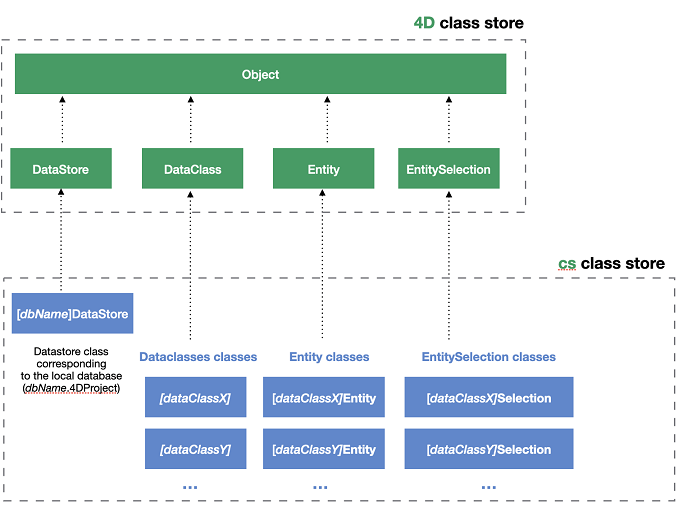
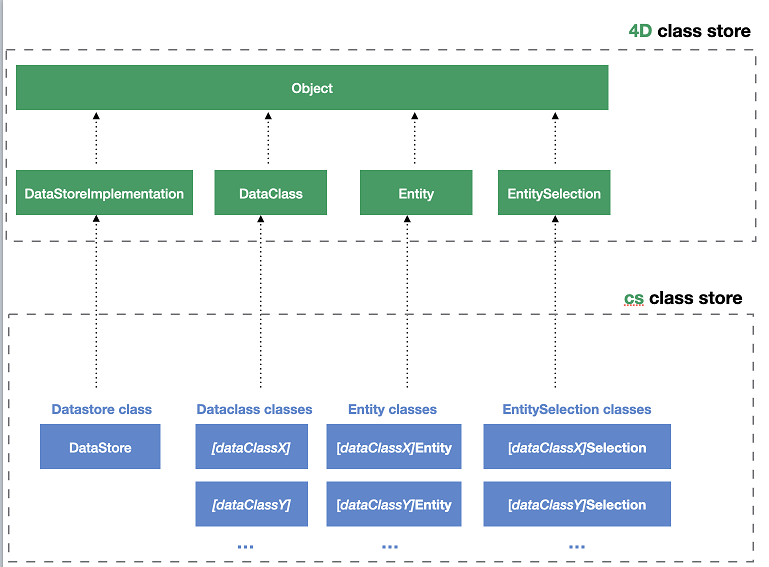
Automated build from branch refs/heads/develop

diff --git a/alpha/en/API/ordaClasses.html b/alpha/en/API/ordaClasses.html
@@ -94,7 +94,7 @@ Form.comp.city:=<span class="hljs-variable">$cityManager</span>.City.<span class
 <li><a href="https://doc.4d.com/4Dv18R3/4D/18-R3/ORDA-Entity.201-4900374.en.html">entity</a></li>
 </ul>
 <h4><a class="anchor" aria-hidden="true" id="user-class-store-cs"></a><a href="#user-class-store-cs" aria-hidden="true" class="hash-link"><svg class="hash-link-icon" aria-hidden="true" height="16" version="1.1" viewBox="0 0 16 16" width="16"><path fill-rule="evenodd" d="M4 9h1v1H4c-1.5 0-3-1.69-3-3.5S2.55 3 4 3h4c1.45 0 3 1.69 3 3.5 0 1.41-.91 2.72-2 3.25V8.59c.58-.45 1-1.27 1-2.09C10 5.22 8.98 4 8 4H4c-.98 0-2 1.22-2 2.5S3 9 4 9zm9-3h-1v1h1c1 0 2 1.22 2 2.5S13.98 12 13 12H9c-.98 0-2-1.22-2-2.5 0-.83.42-1.64 1-2.09V6.25c-1.09.53-2 1.84-2 3.25C6 11.31 7.55 13 9 13h4c1.45 0 3-1.69 3-3.5S14.5 6 13 6z"></path></svg></a>User Class Store (cs)</h4>
-<p>Object instances from ORDA user classes benefit from their parent's properties and functions. For example, an entity class object can call functions from the <a href="https://doc.4d.com/4Dv18R3/4D/18-R3/ORDA-Entity.201-4900374.en.html">ORDA's Entity generic class</a>.</p>
+<p>Object instances from ORDA data model user classes benefit from their parent's properties and functions. For example, an entity class object can call functions from the <a href="https://doc.4d.com/4Dv18R3/4D/18-R3/ORDA-Entity.201-4900374.en.html">ORDA's Entity generic class</a>.</p>
 <p>In addition, the 4D developer can add custom functions to create a business-oriented API exposing only necessary features.</p>
 <p>All ORDA classes are exposed as properties of the <strong><code>cs</code></strong> class store. The following ORDA class objects are available:</p>
 <table>
@@ -102,21 +102,20 @@ Form.comp.city:=<span class="hljs-variable">$cityManager</span>.City.<span class
 <tr><th>ORDA object</th><th>Class</th><th>Instanciated by</th></tr>
 </thead>
 <tbody>
-<tr><td>datastore</td><td>cs.<em>dbName</em>DataStore(*)</td><td><code>ds</code> command</td></tr>
+<tr><td>datastore</td><td>cs.DataStore</td><td><code>ds</code> command</td></tr>
 <tr><td>dataClassName</td><td>cs.<em>DataClassName</em></td><td><code>dataStore.DataClassName</code>, <code>dataStore[DataClassName]</code></td></tr>
 <tr><td>entity from DataClassName</td><td>cs.<em>DataClassName</em>Entity</td><td><code>dataClass.get()</code>, <code>dataClass.new()</code>, <code>entitySelection.first()</code>, <code>entitySelection.last()</code>, <code>entity.previous()</code>, <code>entity.next()</code>, <code>entity.first()</code>, <code>entity.last()</code>, <code>entity.clone()</code></td></tr>
-<tr><td>entitySelection from dataClassName</td><td>cs.<em>dataClassName</em>Selection</td><td><code>dataClass.query()</code>, <code>entitySelection.query()</code>, <code>dataClass.all()</code>, <code>dataClass.fromCollection()</code>, <code>dataClass.newSelection()</code>, <code>entitySelection.drop()</code>, <code>entity.getSelection()</code>, <code>entitySelection.and()</code>, <code>entitySelection.minus()</code>, <code>entitySelection.or()</code>, <code>entitySelection.orderBy()</code>, <code>entitySelection.orderByFormula()</code>, <code>entitySelection.slice()</code>, <code>Create entity selection</code></td></tr>
+<tr><td>entitySelection from dataClassName</td><td>cs.<em>DataClassName</em>Selection</td><td><code>dataClass.query()</code>, <code>entitySelection.query()</code>, <code>dataClass.all()</code>, <code>dataClass.fromCollection()</code>, <code>dataClass.newSelection()</code>, <code>entitySelection.drop()</code>, <code>entity.getSelection()</code>, <code>entitySelection.and()</code>, <code>entitySelection.minus()</code>, <code>entitySelection.or()</code>, <code>entitySelection.orderBy()</code>, <code>entitySelection.orderByFormula()</code>, <code>entitySelection.slice()</code>, <code>Create entity selection</code></td></tr>
 </tbody>
 </table>
-<p>(*)dbName is the .4DProject file name.</p>
 <blockquote>
 <p>ORDA user classes are stored as regular class files (.4dm) in the Classes subfolder of the project <a href="#support-in-4d-projects">(see below)</a>.</p>
 </blockquote>
 <h3><a class="anchor" aria-hidden="true" id="inheritance"></a><a href="#inheritance" aria-hidden="true" class="hash-link"><svg class="hash-link-icon" aria-hidden="true" height="16" version="1.1" viewBox="0 0 16 16" width="16"><path fill-rule="evenodd" d="M4 9h1v1H4c-1.5 0-3-1.69-3-3.5S2.55 3 4 3h4c1.45 0 3 1.69 3 3.5 0 1.41-.91 2.72-2 3.25V8.59c.58-.45 1-1.27 1-2.09C10 5.22 8.98 4 8 4H4c-.98 0-2 1.22-2 2.5S3 9 4 9zm9-3h-1v1h1c1 0 2 1.22 2 2.5S13.98 12 13 12H9c-.98 0-2-1.22-2-2.5 0-.83.42-1.64 1-2.09V6.25c-1.09.53-2 1.84-2 3.25C6 11.31 7.55 13 9 13h4c1.45 0 3-1.69 3-3.5S14.5 6 13 6z"></path></svg></a>Inheritance</h3>
-<p>Given a database named EmpComp containing Employee and Company tables, the following examples show inheritance rules:</p>
-<pre><code class="hljs css language-4d"><span class="hljs-variable">$i</span>:=<span class="hljs-function">OB Instance of</span>(ds;<span class="hljs-number">4</span>D.DataStore) <span class="hljs-comment">//True</span>
-<span class="hljs-variable">$i</span>:=<span class="hljs-function">OB Instance of</span>(ds;cs.EmpCompDataStore) <span class="hljs-comment">//True  </span>
-<span class="hljs-variable">$class</span>:=<span class="hljs-function">OB Class</span>(ds) <span class="hljs-comment">//$class=cs.EmpCompDataStore  </span>
+<p>Given a project containing Employee and Company tables, the following examples show inheritance rules:</p>
+<pre><code class="hljs css language-4d"><span class="hljs-variable">$i</span>:=<span class="hljs-function">OB Instance of</span>(ds;<span class="hljs-number">4</span>D.DataStoreImplementation) <span class="hljs-comment">//True</span>
+<span class="hljs-variable">$i</span>:=<span class="hljs-function">OB Instance of</span>(ds;cs.DataStore) <span class="hljs-comment">//True  </span>
+<span class="hljs-variable">$class</span>:=<span class="hljs-function">OB Class</span>(ds) <span class="hljs-comment">//$class=cs.DataStore  </span>
 
 <span class="hljs-variable">$i</span>:=<span class="hljs-function">OB Instance of</span>(ds.Employee;<span class="hljs-number">4</span>D.DataClass) <span class="hljs-comment">//True</span>
 <span class="hljs-variable">$i</span>:=<span class="hljs-function">OB Instance of</span>(ds.Employee;cs.Employee) <span class="hljs-comment">//True  </span>
@@ -135,23 +134,23 @@ Form.comp.city:=<span class="hljs-variable">$cityManager</span>.City.<span class
 <h3><a class="anchor" aria-hidden="true" id="datastore-class"></a><a href="#datastore-class" aria-hidden="true" class="hash-link"><svg class="hash-link-icon" aria-hidden="true" height="16" version="1.1" viewBox="0 0 16 16" width="16"><path fill-rule="evenodd" d="M4 9h1v1H4c-1.5 0-3-1.69-3-3.5S2.55 3 4 3h4c1.45 0 3 1.69 3 3.5 0 1.41-.91 2.72-2 3.25V8.59c.58-.45 1-1.27 1-2.09C10 5.22 8.98 4 8 4H4c-.98 0-2 1.22-2 2.5S3 9 4 9zm9-3h-1v1h1c1 0 2 1.22 2 2.5S13.98 12 13 12H9c-.98 0-2-1.22-2-2.5 0-.83.42-1.64 1-2.09V6.25c-1.09.53-2 1.84-2 3.25C6 11.31 7.55 13 9 13h4c1.45 0 3-1.69 3-3.5S14.5 6 13 6z"></path></svg></a>DataStore Class</h3>
 <p>A 4D database exposes its own DataStore class in the <code>cs</code> class store.</p>
 <ul>
-<li><strong>Extends</strong>: 4D.DataStore</li>
-<li><strong>Exposed name</strong>: <em>dbName</em>DataStore (where <em>dbName</em> is the .4DProject file name)</li>
-<li><strong>Class file name</strong>: <em>dbName</em>DataStore.4dm</li>
+<li><strong>Extends</strong>: 4D.DataStoreImplementation</li>
+<li><strong>Exposed name</strong>: DataStore</li>
+<li><strong>Class file name</strong>: DataStore.4dm</li>
 </ul>
 <table>
 <thead>
 <tr><th>Database file name</th><th>DataStore class name</th><th>Class file name</th></tr>
 </thead>
 <tbody>
-<tr><td>Employee.4DProject</td><td>cs.EmployeeDataStore</td><td>EmployeeDataStore.4dm</td></tr>
+<tr><td>Employee.4DProject</td><td>cs.DataStore</td><td>DataStore.4dm</td></tr>
 </tbody>
 </table>
-<p>You can create functions in the <em>dbName</em>DataStore class, that will be available through the <code>ds</code> object.</p>
+<p>You can create functions in the DataStore class, that will be available through the <code>ds</code> object.</p>
 <h4><a class="anchor" aria-hidden="true" id="example"></a><a href="#example" aria-hidden="true" class="hash-link"><svg class="hash-link-icon" aria-hidden="true" height="16" version="1.1" viewBox="0 0 16 16" width="16"><path fill-rule="evenodd" d="M4 9h1v1H4c-1.5 0-3-1.69-3-3.5S2.55 3 4 3h4c1.45 0 3 1.69 3 3.5 0 1.41-.91 2.72-2 3.25V8.59c.58-.45 1-1.27 1-2.09C10 5.22 8.98 4 8 4H4c-.98 0-2 1.22-2 2.5S3 9 4 9zm9-3h-1v1h1c1 0 2 1.22 2 2.5S13.98 12 13 12H9c-.98 0-2-1.22-2-2.5 0-.83.42-1.64 1-2.09V6.25c-1.09.53-2 1.84-2 3.25C6 11.31 7.55 13 9 13h4c1.45 0 3-1.69 3-3.5S14.5 6 13 6z"></path></svg></a>Example</h4>
-<pre><code class="hljs css language-4d"><span class="hljs-comment">// cs.EmployeeDataStore class</span>
+<pre><code class="hljs css language-4d"><span class="hljs-comment">// cs.DataStore class</span>
 
-Class extends DataStore
+Class extends DataStoreImplementation
 
 Function getDesc
   <span class="hljs-variable">$0</span>:=<span class="hljs-string">"Database exposing employees and their companies"</span>
@@ -285,21 +284,20 @@ Class extends Entity
 <p><strong>Warning</strong>: Keep in mind that ORDA functions are always executed on the server, thus calling a function do generate a request to the server.</p>
 </blockquote>
 <h2><a class="anchor" aria-hidden="true" id="support-in-4d-projects"></a><a href="#support-in-4d-projects" aria-hidden="true" class="hash-link"><svg class="hash-link-icon" aria-hidden="true" height="16" version="1.1" viewBox="0 0 16 16" width="16"><path fill-rule="evenodd" d="M4 9h1v1H4c-1.5 0-3-1.69-3-3.5S2.55 3 4 3h4c1.45 0 3 1.69 3 3.5 0 1.41-.91 2.72-2 3.25V8.59c.58-.45 1-1.27 1-2.09C10 5.22 8.98 4 8 4H4c-.98 0-2 1.22-2 2.5S3 9 4 9zm9-3h-1v1h1c1 0 2 1.22 2 2.5S13.98 12 13 12H9c-.98 0-2-1.22-2-2.5 0-.83.42-1.64 1-2.09V6.25c-1.09.53-2 1.84-2 3.25C6 11.31 7.55 13 9 13h4c1.45 0 3-1.69 3-3.5S14.5 6 13 6z"></path></svg></a>Support in 4D projects</h2>
-<p>ORDA user class files must be stored at the <a href="/docs/alpha/en/Concepts/classes.html#class-files">same location as regular class files</a>, i.e. in the <code>/Sources/Classes</code> folder of the project folder.</p>
+<p>ORDA data model user class files must be stored at the <a href="/docs/alpha/en/Concepts/classes.html#class-files">same location as regular class files</a>, i.e. in the <code>/Sources/Classes</code> folder of the project folder.</p>
 <h3><a class="anchor" aria-hidden="true" id="creating-classes"></a><a href="#creating-classes" aria-hidden="true" class="hash-link"><svg class="hash-link-icon" aria-hidden="true" height="16" version="1.1" viewBox="0 0 16 16" width="16"><path fill-rule="evenodd" d="M4 9h1v1H4c-1.5 0-3-1.69-3-3.5S2.55 3 4 3h4c1.45 0 3 1.69 3 3.5 0 1.41-.91 2.72-2 3.25V8.59c.58-.45 1-1.27 1-2.09C10 5.22 8.98 4 8 4H4c-.98 0-2 1.22-2 2.5S3 9 4 9zm9-3h-1v1h1c1 0 2 1.22 2 2.5S13.98 12 13 12H9c-.98 0-2-1.22-2-2.5 0-.83.42-1.64 1-2.09V6.25c-1.09.53-2 1.84-2 3.25C6 11.31 7.55 13 9 13h4c1.45 0 3-1.69 3-3.5S14.5 6 13 6z"></path></svg></a>Creating classes</h3>
 <p>You create an ORDA user class by adding a corresponding file in the Classes folder. For example, to create an entity class for the <code>Utilities</code> dataclass, you need to create a <code>UtilitiesEntity.4dm</code> file.</p>
-<p>A class file can be created by a simple double-click in the Classes theme of the Explorer.</p>
-<blockquote>
-<p>By default, empty ORDA classes are not displayed in the Explorer. You need to show them by selecting <strong>Show all data classes</strong> from the Explorer's options menu:
-<img src="/docs/alpha/assets/en/API/showClass.png" alt=""></p>
-</blockquote>
-<p>ORDA user classes have a different icon from regular classes. Empty classes are dimmed:</p>
+<p>A class file can be created by a simple double-click in the Classes theme of the 4D Explorer. ORDA user classes have a different icon from regular classes. Empty classes are dimmed:</p>
 <p><img src="/docs/alpha/assets/en/API/classORDA2.png" alt=""></p>
 <p>Double-click on a class name. 4D creates the ORDA class file and add the <code>extends</code> code, for example for an Entity class:</p>
 <pre><code class="hljs"><span class="hljs-class"><span class="hljs-keyword">Class</span> <span class="hljs-keyword">extends</span> <span class="hljs-title">entity</span></span>
 </code></pre>
 <p>Once a class is defined, its name is no longer dimmed in the Explorer:</p>
 <p><img src="/docs/alpha/assets/en/API/classORDA3.png" alt=""></p>
+<blockquote>
+<p>By default, empty ORDA classes are not displayed in the Explorer. You need to show them by selecting <strong>Show all data classes</strong> from the Explorer's options menu:
+<img src="/docs/alpha/assets/en/API/showClass.png" alt=""></p>
+</blockquote>
 <h3><a class="anchor" aria-hidden="true" id="editing-classes"></a><a href="#editing-classes" aria-hidden="true" class="hash-link"><svg class="hash-link-icon" aria-hidden="true" height="16" version="1.1" viewBox="0 0 16 16" width="16"><path fill-rule="evenodd" d="M4 9h1v1H4c-1.5 0-3-1.69-3-3.5S2.55 3 4 3h4c1.45 0 3 1.69 3 3.5 0 1.41-.91 2.72-2 3.25V8.59c.58-.45 1-1.27 1-2.09C10 5.22 8.98 4 8 4H4c-.98 0-2 1.22-2 2.5S3 9 4 9zm9-3h-1v1h1c1 0 2 1.22 2 2.5S13.98 12 13 12H9c-.98 0-2-1.22-2-2.5 0-.83.42-1.64 1-2.09V6.25c-1.09.53-2 1.84-2 3.25C6 11.31 7.55 13 9 13h4c1.45 0 3-1.69 3-3.5S14.5 6 13 6z"></path></svg></a>Editing classes</h3>
 <p>To open a defined ORDA class in the 4D method editor, double-click on an ORDA class name or select an ORDA class name and select <strong>Edit...</strong> from the contextual menu/options menu of the Explorer window (like for any class):</p>
 <p><img src="/docs/alpha/assets/en/API/classORDA4.png" alt=""></p>

diff --git a/alpha/en/REST/classFunctions.html b/alpha/en/REST/classFunctions.html
@@ -1,4 +1,4 @@
-<!DOCTYPE html><html lang="en"><head><meta name="docsearch:version" content="alpha"/><meta charSet="utf-8"/><meta http-equiv="X-UA-Compatible" content="IE=edge"/><title>Calling ORDA class functions · 4D Documentation</title><meta name="viewport" content="width=device-width"/><meta name="generator" content="Docusaurus"/><meta name="description" content="You can call [user class functions](/docs/alpha/en/API/ordaClasses.html) from the ORDA Data Model through your REST requests, so that you can benefit from the exposed API of the targeted 4D application."/><meta name="docsearch:language" content="en"/><meta property="og:title" content="Calling ORDA class functions · 4D Documentation"/><meta property="og:type" content="website"/><meta property="og:url" content="https://doc4d.github.io/docs/alpha/index.html"/><meta property="og:description" content="You can call [user class functions](/docs/alpha/en/API/ordaClasses.html) from the ORDA Data Model through your REST requests, so that you can benefit from the exposed API of the targeted 4D application."/><meta property="og:image" content="https://doc4d.github.io/docs/alpha/img/logohome.png"/><meta name="twitter:card" content="summary"/><meta name="twitter:image" content="https://doc4d.github.io/docs/alpha/img/logohome.png"/><link rel="shortcut icon" href="/docs/alpha/img/4d.gif"/><link rel="stylesheet" href="https://cdn.jsdelivr.net/docsearch.js/1/docsearch.min.css"/><link rel="stylesheet" href="//cdnjs.cloudflare.com/ajax/libs/highlight.js/9.12.0/styles/routeros.min.css"/><script type="text/javascript" src="https://buttons.github.io/buttons.js"></script><script type="text/javascript" src="https://cdnjs.cloudflare.com/ajax/libs/clipboard.js/2.0.0/clipboard.min.js"></script><script type="text/javascript" src="/docs/js/code-blocks-buttons.js"></script><script src="/docs/alpha/js/scrollSpy.js"></script><link rel="stylesheet" href="/docs/alpha/css/main.css"/><script src="/docs/alpha/js/codetabs.js"></script></head><body class="sideNavVisible separateOnPageNav"><div class="fixedHeaderContainer"><div class="headerWrapper wrapper"><header><a href="/docs/alpha/en"><h2 class="headerTitle">4D Documentation</h2></a><div class="navigationWrapper navigationSlider"><nav class="slidingNav"><ul class="nav-site nav-site-internal"><li class=""><a href="https://doc4d.github.io/docs" target="_self">v18 R3 BETA</a></li><li class=""><a href="https://doc4d.github.io/docs/Rx" target="_self">v18 R2</a></li><li class=""><a href="https://doc4d.github.io/docs/18" target="_self">v18</a></li><span><li><a id="languages-menu" href="#"><img class="languages-icon" src="/docs/alpha/img/language.svg" alt="Languages icon"/>English</a><div id="languages-dropdown" class="hide"><ul id="languages-dropdown-items"><li><a href="/docs/alpha/ja/REST/classFunctions.html">日本語</a></li><li><a href="/docs/alpha/de/REST/classFunctions.html">Deutsch</a></li><li><a href="/docs/alpha/es/REST/classFunctions.html">Español</a></li><li><a href="/docs/alpha/fr/REST/classFunctions.html">Français</a></li><li><a href="/docs/alpha/pt/REST/classFunctions.html">Português</a></li></ul></div></li><script>
+<!DOCTYPE html><html lang="en"><head><meta name="docsearch:version" content="alpha"/><meta charSet="utf-8"/><meta http-equiv="X-UA-Compatible" content="IE=edge"/><title>Calling ORDA class functions · 4D Documentation</title><meta name="viewport" content="width=device-width"/><meta name="generator" content="Docusaurus"/><meta name="description" content="You can call [user class functions](/docs/alpha/en/API/ordaClasses.html) defined in the ORDA Data Model through your REST requests, so that you can benefit from the exposed API of the targeted 4D application."/><meta name="docsearch:language" content="en"/><meta property="og:title" content="Calling ORDA class functions · 4D Documentation"/><meta property="og:type" content="website"/><meta property="og:url" content="https://doc4d.github.io/docs/alpha/index.html"/><meta property="og:description" content="You can call [user class functions](/docs/alpha/en/API/ordaClasses.html) defined in the ORDA Data Model through your REST requests, so that you can benefit from the exposed API of the targeted 4D application."/><meta property="og:image" content="https://doc4d.github.io/docs/alpha/img/logohome.png"/><meta name="twitter:card" content="summary"/><meta name="twitter:image" content="https://doc4d.github.io/docs/alpha/img/logohome.png"/><link rel="shortcut icon" href="/docs/alpha/img/4d.gif"/><link rel="stylesheet" href="https://cdn.jsdelivr.net/docsearch.js/1/docsearch.min.css"/><link rel="stylesheet" href="//cdnjs.cloudflare.com/ajax/libs/highlight.js/9.12.0/styles/routeros.min.css"/><script type="text/javascript" src="https://buttons.github.io/buttons.js"></script><script type="text/javascript" src="https://cdnjs.cloudflare.com/ajax/libs/clipboard.js/2.0.0/clipboard.min.js"></script><script type="text/javascript" src="/docs/js/code-blocks-buttons.js"></script><script src="/docs/alpha/js/scrollSpy.js"></script><link rel="stylesheet" href="/docs/alpha/css/main.css"/><script src="/docs/alpha/js/codetabs.js"></script></head><body class="sideNavVisible separateOnPageNav"><div class="fixedHeaderContainer"><div class="headerWrapper wrapper"><header><a href="/docs/alpha/en"><h2 class="headerTitle">4D Documentation</h2></a><div class="navigationWrapper navigationSlider"><nav class="slidingNav"><ul class="nav-site nav-site-internal"><li class=""><a href="https://doc4d.github.io/docs" target="_self">v18 R3 BETA</a></li><li class=""><a href="https://doc4d.github.io/docs/Rx" target="_self">v18 R2</a></li><li class=""><a href="https://doc4d.github.io/docs/18" target="_self">v18</a></li><span><li><a id="languages-menu" href="#"><img class="languages-icon" src="/docs/alpha/img/language.svg" alt="Languages icon"/>English</a><div id="languages-dropdown" class="hide"><ul id="languages-dropdown-items"><li><a href="/docs/alpha/ja/REST/classFunctions.html">日本語</a></li><li><a href="/docs/alpha/de/REST/classFunctions.html">Deutsch</a></li><li><a href="/docs/alpha/es/REST/classFunctions.html">Español</a></li><li><a href="/docs/alpha/fr/REST/classFunctions.html">Français</a></li><li><a href="/docs/alpha/pt/REST/classFunctions.html">Português</a></li></ul></div></li><script>
         const languagesMenuItem = document.getElementById("languages-menu");
         const languagesDropDown = document.getElementById("languages-dropdown");
         languagesMenuItem.addEventListener("click", function(event) {
@@ -66,7 +66,7 @@
                 };
               }
             });
-        </script></nav></div><div class="container mainContainer docsContainer"><div class="wrapper"><div class="post"><header class="postHeader"><a class="edit-page-link button" href="https://github.com/4D/docs/edit/develop/docs/REST/ClassFunctions.md" target="_blank" rel="noreferrer noopener">Edit</a><h1 id="__docusaurus" class="postHeaderTitle">Calling ORDA class functions</h1></header><article><div><span><p>You can call <a href="/docs/alpha/en/API/ordaClasses.html">user class functions</a> from the ORDA Data Model through your REST requests, so that you can benefit from the exposed API of the targeted 4D application.</p>
+        </script></nav></div><div class="container mainContainer docsContainer"><div class="wrapper"><div class="post"><header class="postHeader"><a class="edit-page-link button" href="https://github.com/4D/docs/edit/develop/docs/REST/ClassFunctions.md" target="_blank" rel="noreferrer noopener">Edit</a><h1 id="__docusaurus" class="postHeaderTitle">Calling ORDA class functions</h1></header><article><div><span><p>You can call <a href="/docs/alpha/en/API/ordaClasses.html">user class functions</a> defined in the ORDA Data Model through your REST requests, so that you can benefit from the exposed API of the targeted 4D application.</p>
 <p>Functions are simply called in requests on the appropriate ORDA interface, without (). For example, if you have defined a <code>getCity()</code> function in the City dataclass class, you could call it using the following request:</p>
 <p><code>/rest/City/getCity</code></p>
 <p>with data in the body of the request: <code>[&quot;Aguada&quot;]</code></p>
